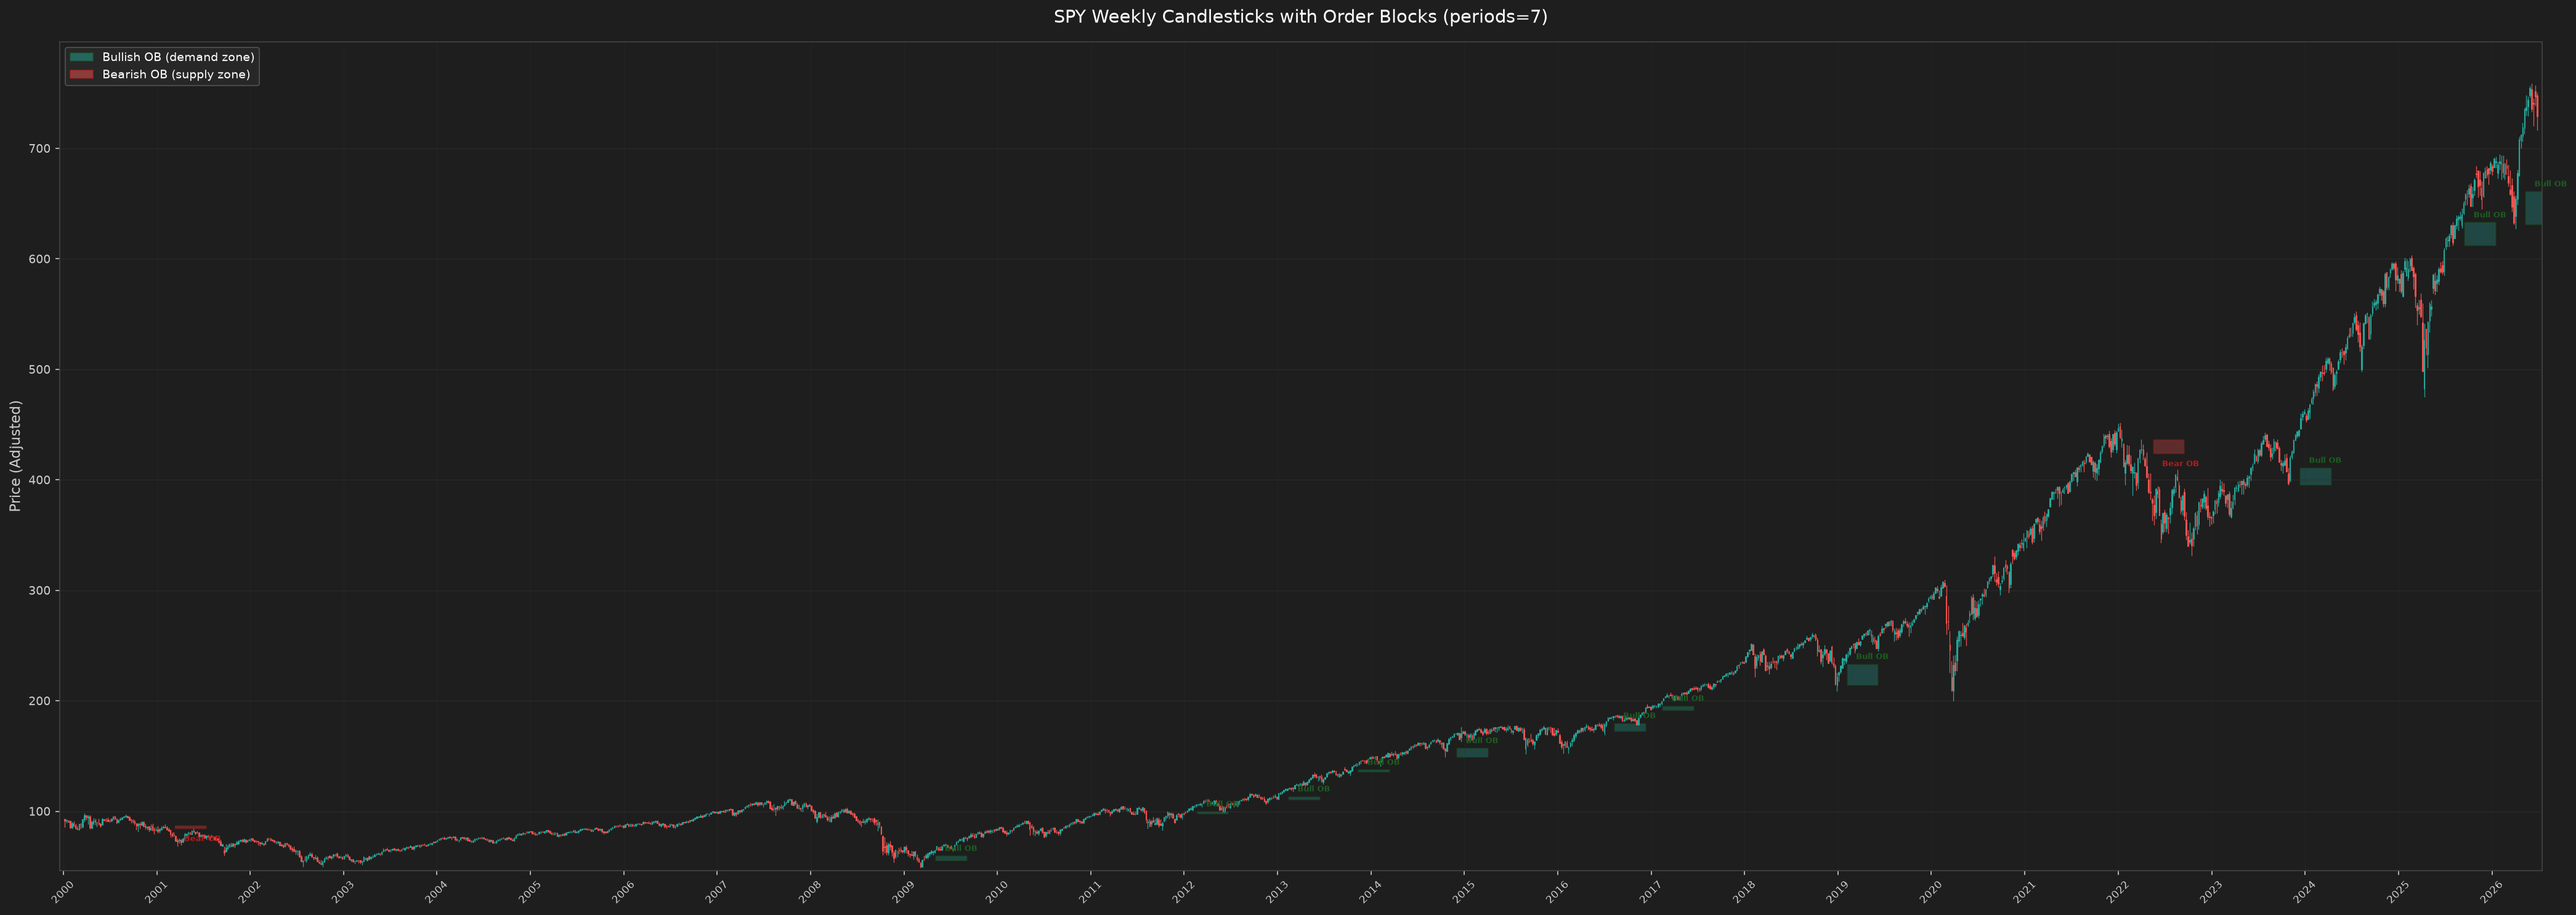
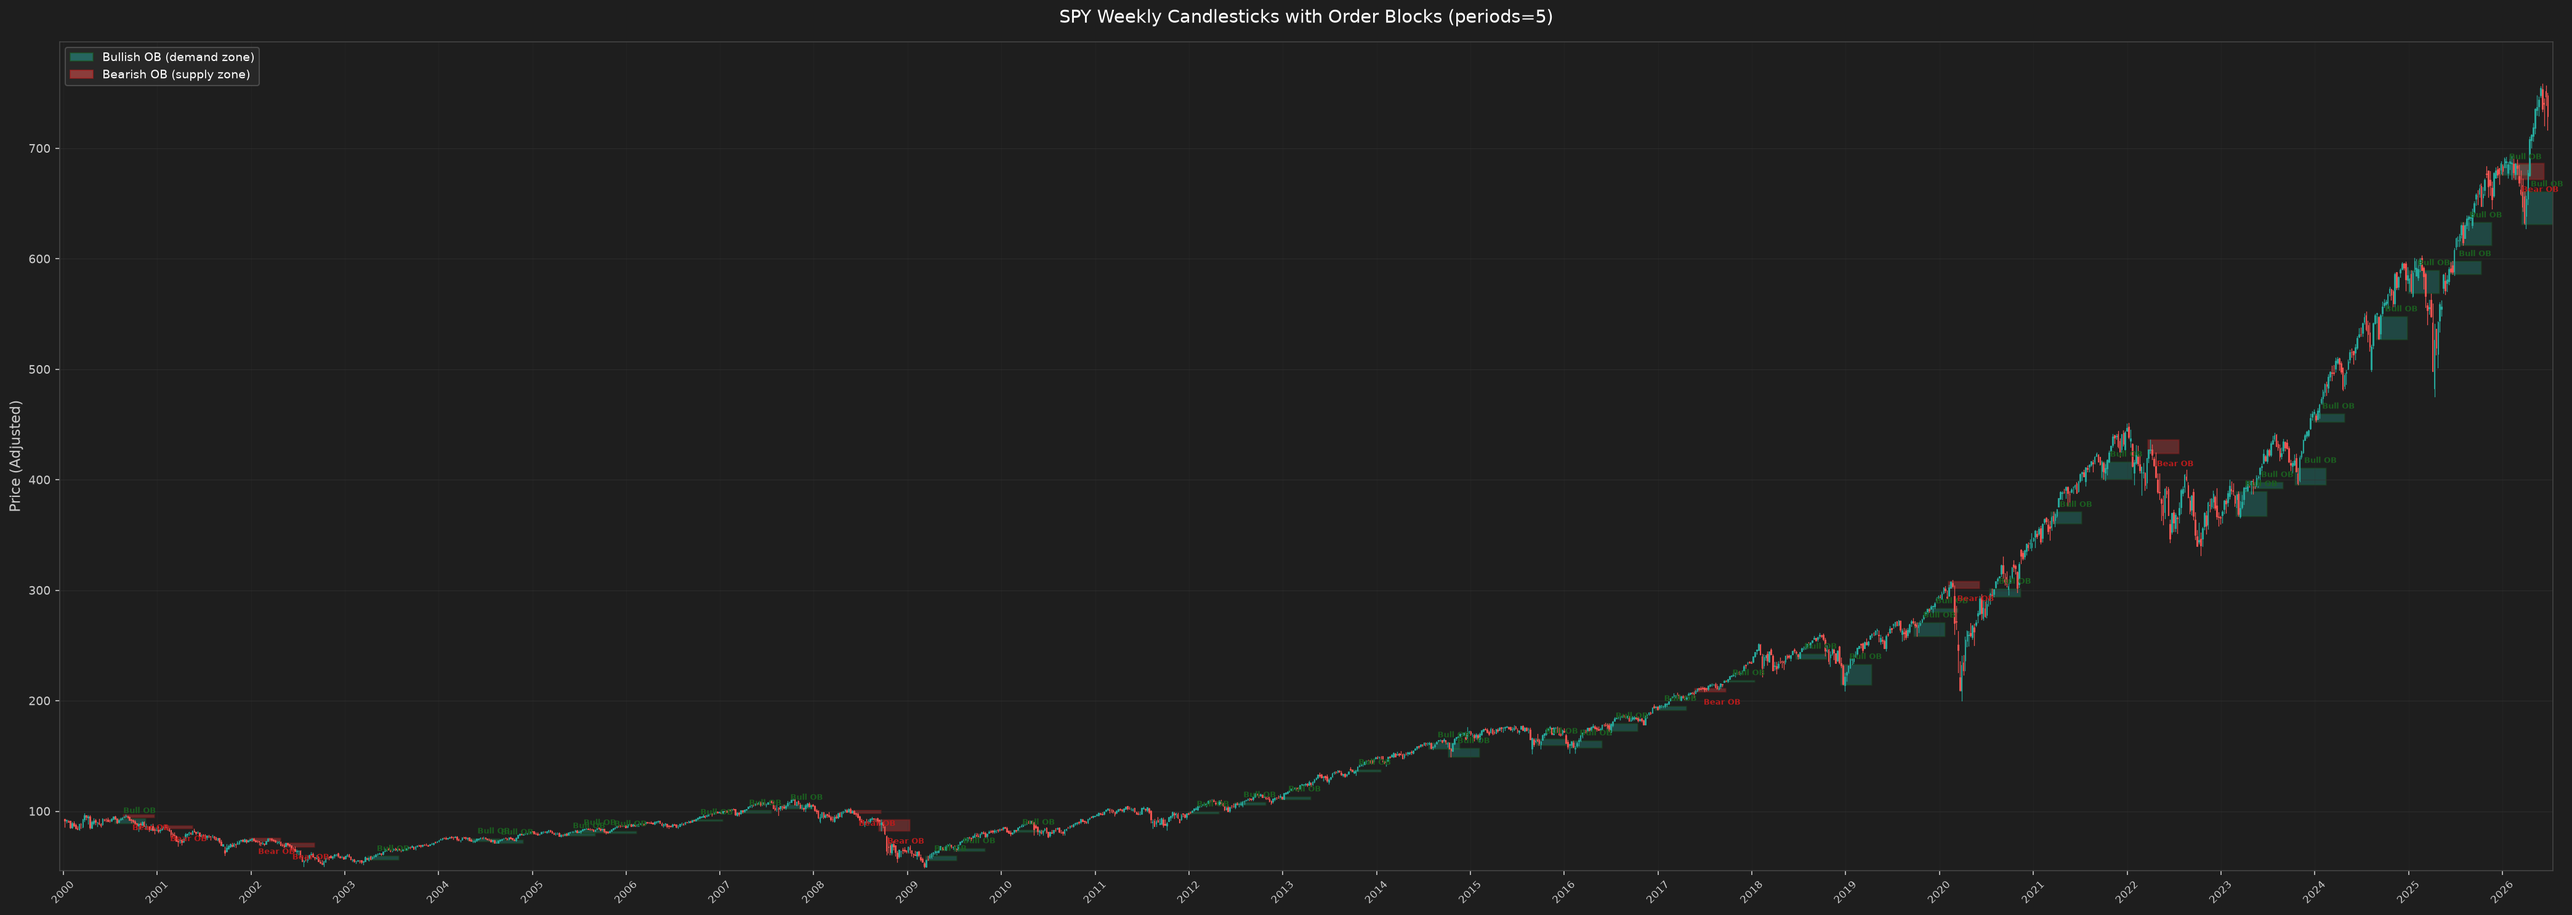
fix: place OB at actual OB candle and use periods=5
Two fixes to match TradingView's Order Block Finder behaviour:

1. OB flags now attributed to the OB candle index (ob_idx) instead of
   the detection bar (i). This mirrors Pine Script's offset=-ob_period
   and eliminates the forward lag.

2. Changed default periods from 7 to 5 to match user's TradingView
   configuration. Result: 41 bullish + 10 bearish = 51 total OBs.

diff --git a/order_block_finder.py b/order_block_finder.py
@@ -26,7 +26,7 @@ OUTPUT_CSV = DATA_DIR / "spy_weekly_with_ob.csv"
 
 def detect_order_blocks(
     df: pd.DataFrame,
-    periods: int = 7,
+    periods: int = 5,
     threshold: float = 0.0,
 ) -> pd.DataFrame:
     """
@@ -40,7 +40,8 @@ def detect_order_blocks(
     threshold : minimum absolute percent move from the OB candle's close
                 to the last candle in the sequence (close[1] in Pine terms).
 
-    Returns the input DataFrame augmented with OB columns.
+    OB flags are attributed to the OB candle itself (matching Pine Script's
+    offset = -ob_period behaviour), NOT to the detection bar.
     """
     n = len(df)
     ob_period = periods + 1
@@ -70,11 +71,11 @@ def detect_order_blocks(
                 if closes[i - j] > opens[i - j]:
                     up_count += 1
             if up_count == periods and relmove:
-                bull_ob[i] = True
-                ob_high[i] = highs[ob_idx]
-                ob_low[i] = lows[ob_idx]
-                ob_mid[i] = (highs[ob_idx] + lows[ob_idx]) / 2
-                ob_type[i] = "Bullish"
+                bull_ob[ob_idx] = True
+                ob_high[ob_idx] = highs[ob_idx]
+                ob_low[ob_idx] = lows[ob_idx]
+                ob_mid[ob_idx] = (highs[ob_idx] + lows[ob_idx]) / 2
+                ob_type[ob_idx] = "Bullish"
 
         # --- Bearish OB: OB candle is an up candle, followed by `periods` down candles ---
         if closes[ob_idx] > opens[ob_idx]:
@@ -83,11 +84,11 @@ def detect_order_blocks(
                 if closes[i - j] < opens[i - j]:
                     down_count += 1
             if down_count == periods and relmove:
-                bear_ob[i] = True
-                ob_high[i] = highs[ob_idx]
-                ob_low[i] = lows[ob_idx]
-                ob_mid[i] = (highs[ob_idx] + lows[ob_idx]) / 2
-                ob_type[i] = "Bearish"
+                bear_ob[ob_idx] = True
+                ob_high[ob_idx] = highs[ob_idx]
+                ob_low[ob_idx] = lows[ob_idx]
+                ob_mid[ob_idx] = (highs[ob_idx] + lows[ob_idx]) / 2
+                ob_type[ob_idx] = "Bearish"
 
     result = df.copy()
     result["OB_Bull"] = bull_ob.astype(int)
@@ -111,7 +112,7 @@ def main():
     df = pd.read_csv(INPUT_CSV, index_col="Week_Ending", parse_dates=True)
     print(f"Loaded {len(df)} weekly bars")
 
-    periods = 7
+    periods = 5
     threshold = 0.0
     print(f"Parameters: periods={periods}, threshold={threshold}%")
 

diff --git a/plot_ob_chart.py b/plot_ob_chart.py
@@ -90,7 +90,7 @@ def main():
     ax.tick_params(axis="y", colors="#cccccc", labelsize=9)
     ax.yaxis.label.set_color("#cccccc")
     ax.set_ylabel("Price (Adjusted)", fontsize=11)
-    ax.set_title("SPY Weekly Candlesticks with Order Blocks (periods=7)", fontsize=14, color="white", pad=15)
+    ax.set_title("SPY Weekly Candlesticks with Order Blocks (periods=5)", fontsize=14, color="white", pad=15)
 
     for spine in ax.spines.values():
         spine.set_color("#444444")
